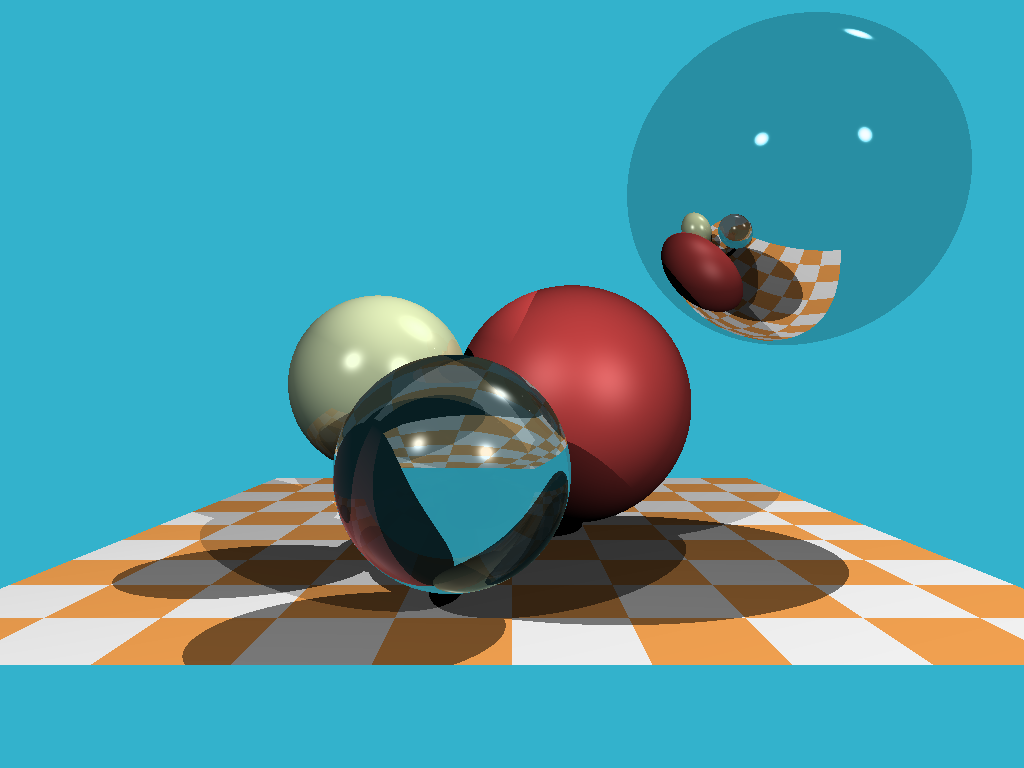
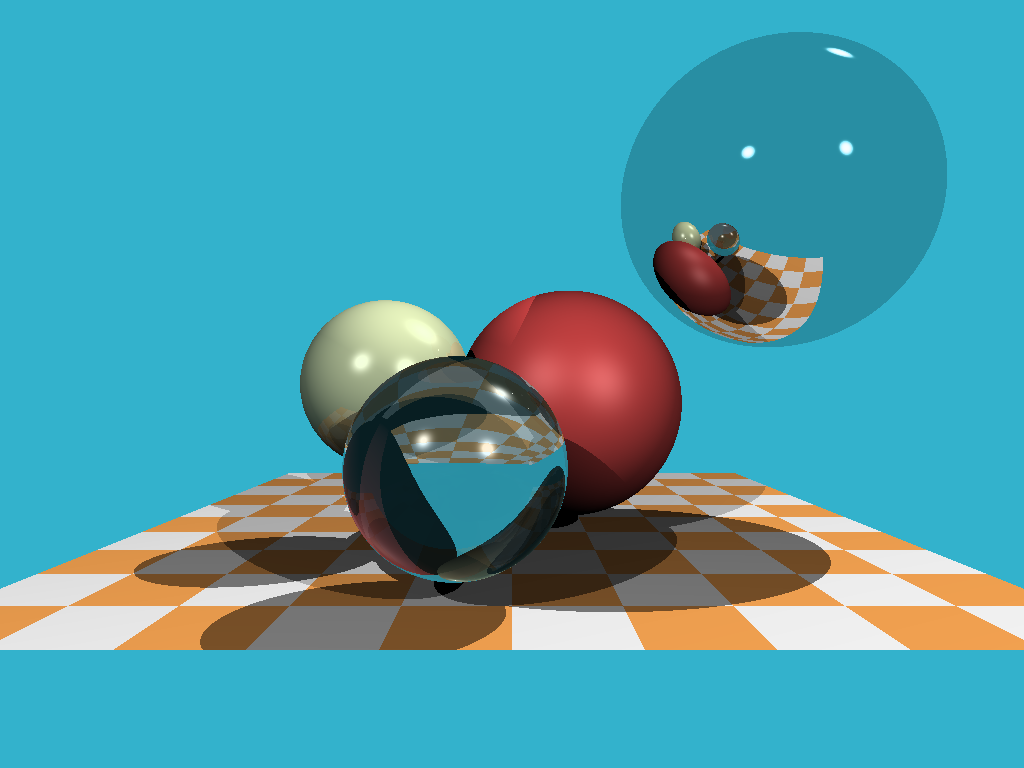
Update x,y ray direction expressions
Provided upstream at e203962.

diff --git a/pyray.py b/pyray.py
@@ -182,10 +182,9 @@ def getFB(width, height, spheres, background, lights):
 
     for j in range(height):
         for i in range(width):
-            x =  (2*(i + 0.5)/float(width)  - 1)*math.tan(fov/2.)*width/float(height)
-            y = -(2*(j + 0.5)/float(height) - 1)*math.tan(fov/2.)
-            p = np.array([x,y,-1])
-            dir = p/LA.norm(p)
+            x =  (i + 0.5) - width/2.
+            y = -(j + 0.5) + height/2. # flips the image at the same time
+            dir = normalize(np.array([x, y, -height/(2.*math.tan(fov/2.))]))
             framebuffer.append(cast_ray(origin, dir, spheres, background, lights, 0))
         if j % 32 == 0:
             print("Done row")
